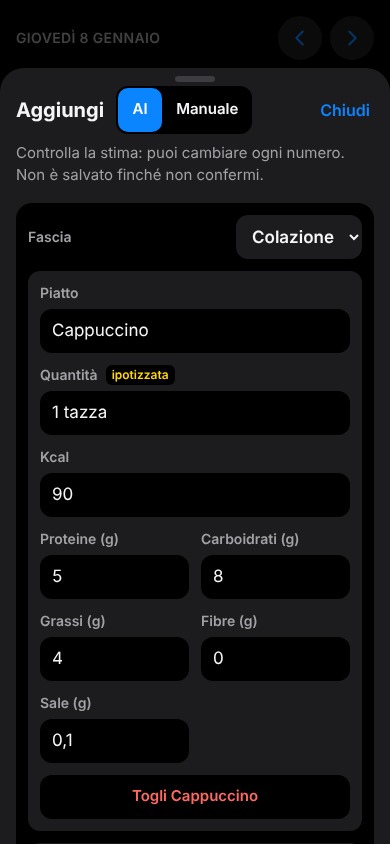
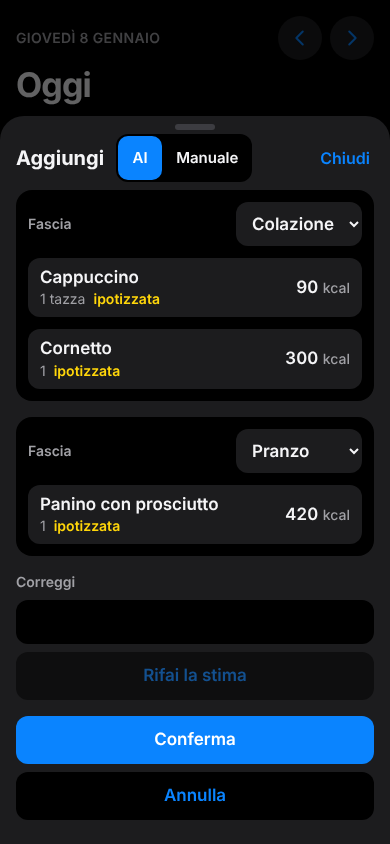
T4b.2 proposta della stima a righe compatte (in attesa di revisione)
Claude-Session: https://claude.ai/code/session_015vJA156enAwwDaa2Dedvun

diff --git a/src/app/components/ai-estimate.tsx b/src/app/components/ai-estimate.tsx
@@ -44,11 +44,14 @@ export function AiEstimate({ store, date, dayDishes, onChanged, onClose, fixedSl
   const [original, setOriginal] = useState<{ proposal: MealProposal; text: string } | null>(null);
   const [correction, setCorrection] = useState("");
   const [errors, setErrors] = useState<DraftErrors>({});
+  // I piatti aperti per la modifica (gli altri sono una riga sola).
+  const [openKeys, setOpenKeys] = useState<string[]>([]);
 
   const start = (proposal: MealProposal, originalText: string) => {
     setOriginal({ proposal, text: originalText });
     setDrafts(proposalToDrafts(fixedSlot ? forceSlot(proposal, fixedSlot) : proposal));
     setErrors({});
+    setOpenKeys([]);
     setCorrection("");
   };
 
@@ -88,6 +91,8 @@ export function AiEstimate({ store, date, dayDishes, onChanged, onClose, fixedSl
     const r = draftsToProposal(drafts);
     if (!r.ok) {
       setErrors(r.errors);
+      // I piatti con un errore si aprono da soli.
+      setOpenKeys((open) => [...new Set([...open, ...Object.keys(r.errors)])]);
       return;
     }
     setErrors({});
@@ -106,6 +111,7 @@ export function AiEstimate({ store, date, dayDishes, onChanged, onClose, fixedSl
 
   const setDish = (mealKey: string, dishKey: string, patch: Partial<DishDraft>) =>
     setDrafts((ds) => ds && ds.map((m) => (m.key === mealKey ? { ...m, dishes: m.dishes.map((d) => (d.key === dishKey ? { ...d, ...patch } : d)) } : m)));
+  const toggle = (key: string) => setOpenKeys((open) => (open.includes(key) ? open.filter((k) => k !== key) : [...open, key]));
   const removeDish = (mealKey: string, dishKey: string) =>
     setDrafts((ds) => ds && ds.map((m) => (m.key === mealKey ? { ...m, dishes: m.dishes.filter((d) => d.key !== dishKey) } : m)).filter((m) => m.dishes.length > 0));
 
@@ -144,9 +150,6 @@ export function AiEstimate({ store, date, dayDishes, onChanged, onClose, fixedSl
 
   return (
     <div className="flex flex-col gap-4">
-      <p className="text-[15px] text-muted">
-        Controlla la stima: puoi cambiare ogni numero. Non è salvato finché non confermi.
-      </p>
       {drafts.map((meal) => (
         <section key={meal.key} aria-label={`Pasto ${meal.slot}`} className="flex flex-col gap-3 rounded-2xl bg-bg p-3">
           {!fixedSlot && (
@@ -168,50 +171,74 @@ export function AiEstimate({ store, date, dayDishes, onChanged, onClose, fixedSl
             </select>
           </div>
           )}
-          {meal.dishes.map((d) => (
-            <div key={d.key} className="flex flex-col gap-3 rounded-xl bg-card p-3">
-              <div className="flex flex-col gap-1.5">
-                <label htmlFor={`name-${d.key}`} className="text-sm font-semibold text-muted">
-                  Piatto
-                </label>
-                <input id={`name-${d.key}`} type="text" autoComplete="off" value={d.name} onChange={(e) => setDish(meal.key, d.key, { name: e.target.value })} className={`${input} bg-bg`} />
-              </div>
-              <div className="flex flex-col gap-1.5">
-                <label htmlFor={`qty-${d.key}`} className="flex items-center gap-2 text-sm font-semibold text-muted">
-                  Quantità
-                  {d.quantityAssumed && <span className="rounded-md bg-bg px-1.5 py-0.5 text-xs font-semibold text-warn">ipotizzata</span>}
-                </label>
-                <input id={`qty-${d.key}`} type="text" autoComplete="off" value={d.quantity} onChange={(e) => setDish(meal.key, d.key, { quantity: e.target.value, quantityAssumed: false })} className={`${input} bg-bg`} />
-                {d.note && <p className="text-sm text-muted">{d.note}</p>}
-              </div>
-              <div className="grid grid-cols-2 gap-x-3 gap-y-3">
-                {DISH_NUMBER_KEYS.map((k) => {
-                  const err = errors[d.key]?.[k];
-                  return (
-                    <div key={k} className={`flex flex-col gap-1.5 ${k === "kcal" ? "col-span-2" : ""}`}>
-                      <label htmlFor={`${k}-${d.key}`} className="text-sm font-semibold text-muted">
-                        {NUMBER_LABELS[k]}
+          {meal.dishes.map((d) => {
+            const isOpen = openKeys.includes(d.key);
+            const hasError = errors[d.key] !== undefined;
+            return (
+              <div key={d.key} className="overflow-hidden rounded-xl bg-card">
+                <button
+                  type="button"
+                  aria-expanded={isOpen}
+                  aria-controls={`dish-${d.key}`}
+                  onClick={() => toggle(d.key)}
+                  className="flex min-h-14 w-full items-center justify-between gap-3 px-3 py-2 text-left"
+                >
+                  <span className="min-w-0">
+                    <span className="block break-words text-[17px] font-semibold leading-snug">{d.name.trim() || "Piatto"}</span>
+                    <span className="flex flex-wrap items-center gap-x-2 text-sm text-muted">
+                      {d.quantity.trim() !== "" && <span className="break-words">{d.quantity.trim()}</span>}
+                      {d.quantityAssumed && <span className="font-semibold text-warn">ipotizzata</span>}
+                      {hasError && <span className="font-semibold text-bad">da correggere</span>}
+                    </span>
+                  </span>
+                  <span className="shrink-0 text-[17px] font-semibold tabular-nums">{d.kcal.trim() === "" ? "–" : d.kcal} <span className="text-sm font-medium text-muted">kcal</span></span>
+                </button>
+                {isOpen && (
+                  <div id={`dish-${d.key}`} className="flex flex-col gap-3 border-t border-line p-3">
+                    <div className="flex flex-col gap-1.5">
+                      <label htmlFor={`name-${d.key}`} className="text-sm font-semibold text-muted">
+                        Piatto
                       </label>
-                      <input
-                        id={`${k}-${d.key}`}
-                        type="text"
-                        inputMode="decimal"
-                        autoComplete="off"
-                        value={d[k]}
-                        onChange={(e) => setDish(meal.key, d.key, { [k]: e.target.value })}
-                        aria-invalid={err ? true : undefined}
-                        className={`${input} bg-bg ${err ? "ring-2 ring-bad" : ""}`}
-                      />
-                      {err && <p className="text-sm font-medium text-bad">{err}</p>}
+                      <input id={`name-${d.key}`} type="text" autoComplete="off" value={d.name} onChange={(e) => setDish(meal.key, d.key, { name: e.target.value })} className={`${input} bg-bg`} />
                     </div>
-                  );
-                })}
+                    <div className="flex flex-col gap-1.5">
+                      <label htmlFor={`qty-${d.key}`} className="text-sm font-semibold text-muted">
+                        Quantità
+                      </label>
+                      <input id={`qty-${d.key}`} type="text" autoComplete="off" value={d.quantity} onChange={(e) => setDish(meal.key, d.key, { quantity: e.target.value, quantityAssumed: false })} className={`${input} bg-bg`} />
+                      {d.note && <p className="text-sm text-muted">{d.note}</p>}
+                    </div>
+                    <div className="grid grid-cols-2 gap-x-3 gap-y-3">
+                      {DISH_NUMBER_KEYS.map((k) => {
+                        const err = errors[d.key]?.[k];
+                        return (
+                          <div key={k} className={`flex flex-col gap-1.5 ${k === "kcal" ? "col-span-2" : ""}`}>
+                            <label htmlFor={`${k}-${d.key}`} className="text-sm font-semibold text-muted">
+                              {NUMBER_LABELS[k]}
+                            </label>
+                            <input
+                              id={`${k}-${d.key}`}
+                              type="text"
+                              inputMode="decimal"
+                              autoComplete="off"
+                              value={d[k]}
+                              onChange={(e) => setDish(meal.key, d.key, { [k]: e.target.value })}
+                              aria-invalid={err ? true : undefined}
+                              className={`${input} bg-bg ${err ? "ring-2 ring-bad" : ""}`}
+                            />
+                            {err && <p className="text-sm font-medium text-bad">{err}</p>}
+                          </div>
+                        );
+                      })}
+                    </div>
+                    <button type="button" onClick={() => removeDish(meal.key, d.key)} className="min-h-11 rounded-xl bg-bg px-3 text-[15px] font-semibold text-bad">
+                      Togli {d.name.trim() || "il piatto"}
+                    </button>
+                  </div>
+                )}
               </div>
-              <button type="button" onClick={() => removeDish(meal.key, d.key)} className="min-h-11 rounded-xl bg-bg px-3 text-[15px] font-semibold text-bad">
-                Togli {d.name.trim() || "il piatto"}
-              </button>
-            </div>
-          ))}
+            );
+          })}
         </section>
       ))}
 

diff --git a/docs/DIARIO.md b/docs/DIARIO.md
@@ -44,6 +44,7 @@ Una riga per task chiuso.
 - T4.7 · fatto · `docs/REPORT-FASE-4.md` scritto, con i controlli da fare sul telefono prima e dopo il collegamento di Vertex AI.
 - Verifica dopo la fase · contatore delle stime AI protetto: l'utente poteva azzerare `ai_usage` con un update diretto e superare il limite. Migrazione 0009: tolti i permessi diretti di inserimento e modifica, funzione `use_ai_estimate` con i permessi del proprietario. Provata su PostgreSQL locale: limite rispettato, update diretto senza effetto. Aggiunto `supabase/aggiornamento-fase-4.sql` (migrazioni 6-9) per chi ha già eseguito `setup.sql` della fase 3.
 - T4b.1 · fatto · pannello Aggiungi con selettore "AI | Manuale" accanto al titolo (si apre su AI); AI: campo "Cosa hai mangiato?" vuoto, senza esempio né frase sul microfono, avviso «Usa Manuale» se l'AI non c'è; Manuale: piatto a mano con "Stima con AI"; sotto "Preferiti", "Attività a mano", "Pesata" senza righe grigie. Tolti "Piatto a mano" e "Copia da ieri" (con `copy-meals.ts`, il suo test e 2 scenari). "+ Aggiungi piatto" apre lo stesso pannello con la fascia come titolo e fissata (`forceSlot`: tutti i piatti proposti nella fascia fissata) e sotto solo "Preferiti". Tolti anche tutti i testi d'esempio nei campi (piatto, AI, correzione, primo avvio, accesso). 4 scenari nuovi.
+- T4b.2 · fatto · proposta dell'AI a righe compatte: ogni piatto è una riga (nome, quantità con "ipotizzata", kcal); toccandola si aprono nome, quantità, nota del modello, kcal e nutrienti e "Togli"; un piatto con un errore si apre da solo e la riga dice "da correggere"; tolta la frase "Controlla la stima…". Restano Correggi, Rifai la stima, Conferma, Annulla. Scenari aggiornati (+2 nuovi).
 
 ## Decisioni da confermare
 
@@ -116,6 +117,7 @@ Una riga per task chiuso.
 - Guida a Vertex AI (T4.6): propone un budget di 5 €/mese come esempio, il modello della famiglia Flash e le regioni `europe-west4` / `europe-west1` come esempi, con l'istruzione di verificare la disponibilità del modello nella regione. Il budget di Google Cloud avvisa ma non blocca la spesa: la protezione vera è il limite di 60 stime al giorno.
 - Pannello Aggiungi (T4b.1): la parte principale resta montata (nascosta) quando si apre Preferiti, Attività o Pesata, così il testo scritto e la proposta non si perdono tornando indietro; passando da AI a Manuale e ritorno succede lo stesso. Con la fascia fissata tutti i piatti proposti finiscono in un solo pasto in quella fascia, e il segno «libero» segue lo stato del pasto già esistente (come prima). Nel pannello a fascia fissata la sotto-schermata Preferiti parte con quella fascia. Il selettore ha pulsanti larghi almeno 44 px.
 - Tolti i testi d'esempio anche nel primo avvio e nell'accesso (non richiesto dal solo T4b.1 ma dalla regola di fase): restano solo i suggerimenti dei valori predefiniti in Impostazioni, che non sono esempi.
+- Proposta compatta (T4b.2): le righe partono tutte chiuse (anche con un solo piatto); si possono aprire più righe insieme. Dopo "Rifai la stima" le righe tornano chiuse. Nessuna logica nuova da testare a parte (solo presentazione).
 
 ## Non verificato
 

diff --git a/docs/TASKS.md b/docs/TASKS.md
@@ -296,7 +296,7 @@ Vincoli di questa fase:
 - "+ Aggiungi piatto" sotto un pasto apre lo stesso pannello, su AI, con il nome della fascia come titolo e la fascia fissata: tutti i piatti proposti dall'AI vanno in quella fascia, anche se il modello ne indica un'altra. Sotto compare solo "Preferiti".
 - Test della logica che porta i piatti proposti nella fascia fissata.
 
-### T4b.2 Proposta della stima a righe compatte · da fare
+### T4b.2 Proposta della stima a righe compatte · fatto
 - Ogni piatto della proposta è una riga: nome, quantità (con "ipotizzata" se lo è), kcal.
 - Toccando la riga si aprono nome, quantità, nota del modello, kcal e nutrienti modificabili, e "Togli". Un piatto con un errore si apre da solo e la riga lo segnala.
 - Sparisce la frase iniziale "Controlla la stima…". Restano "Correggi", "Rifai la stima", "Conferma", "Annulla".
